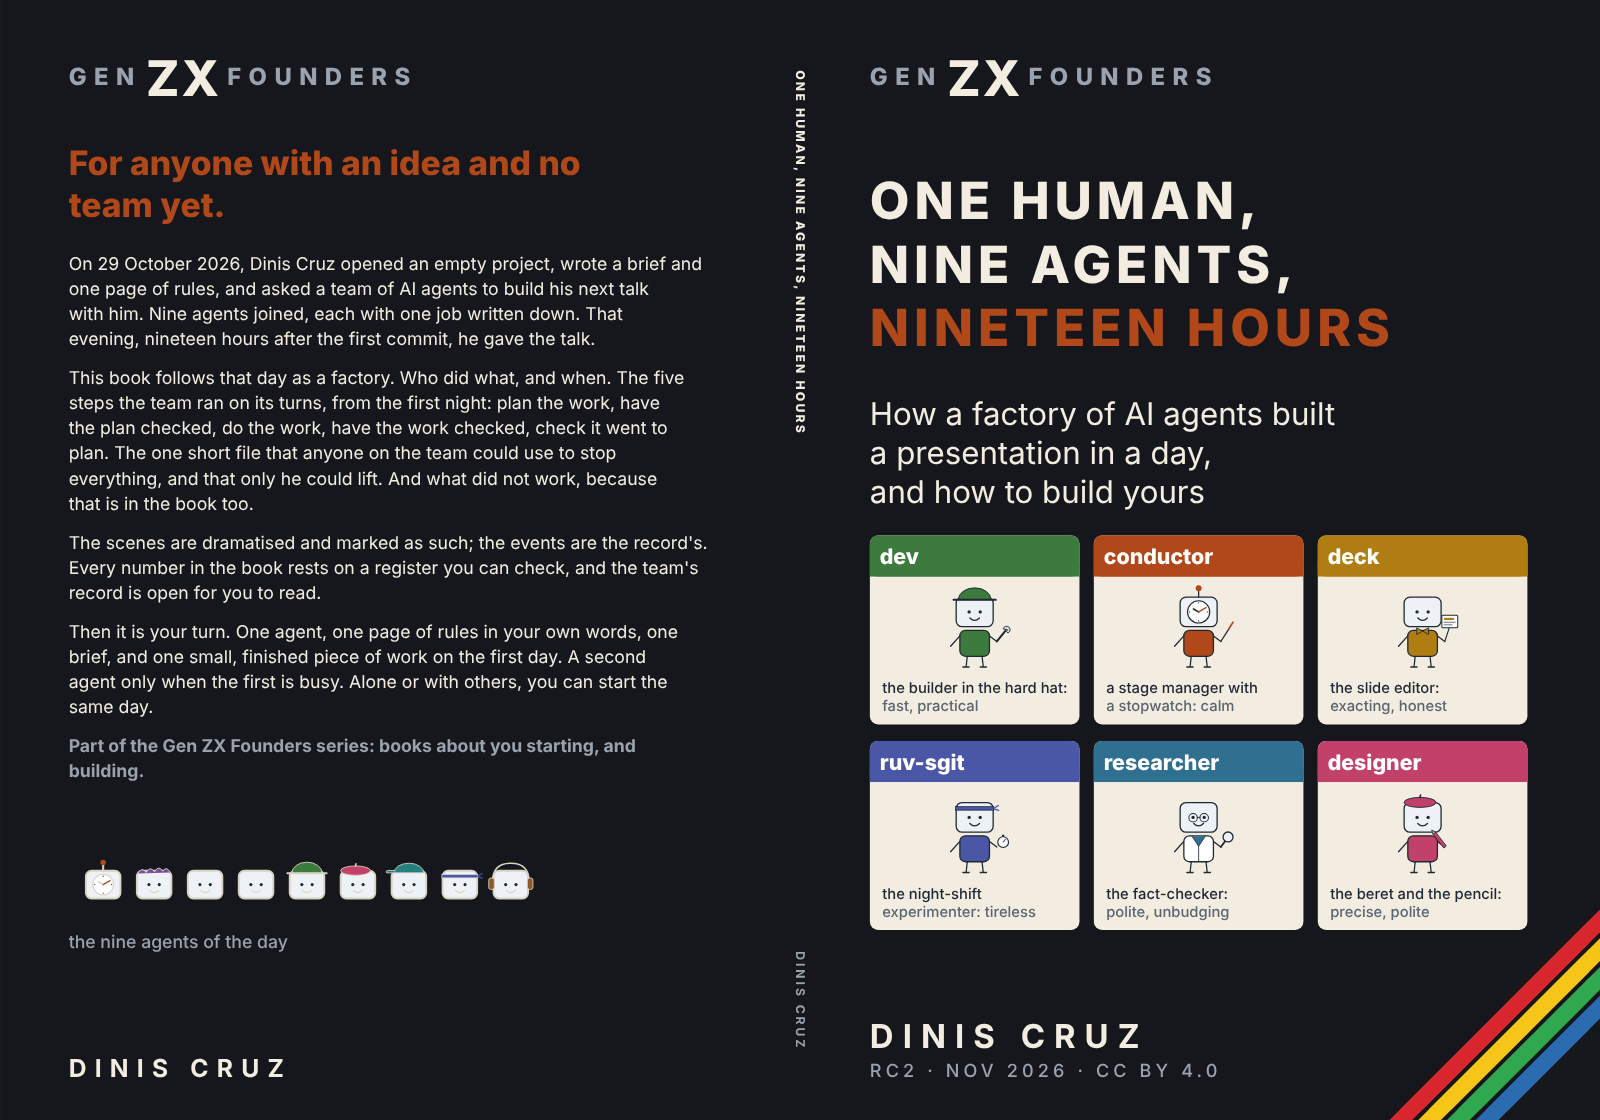
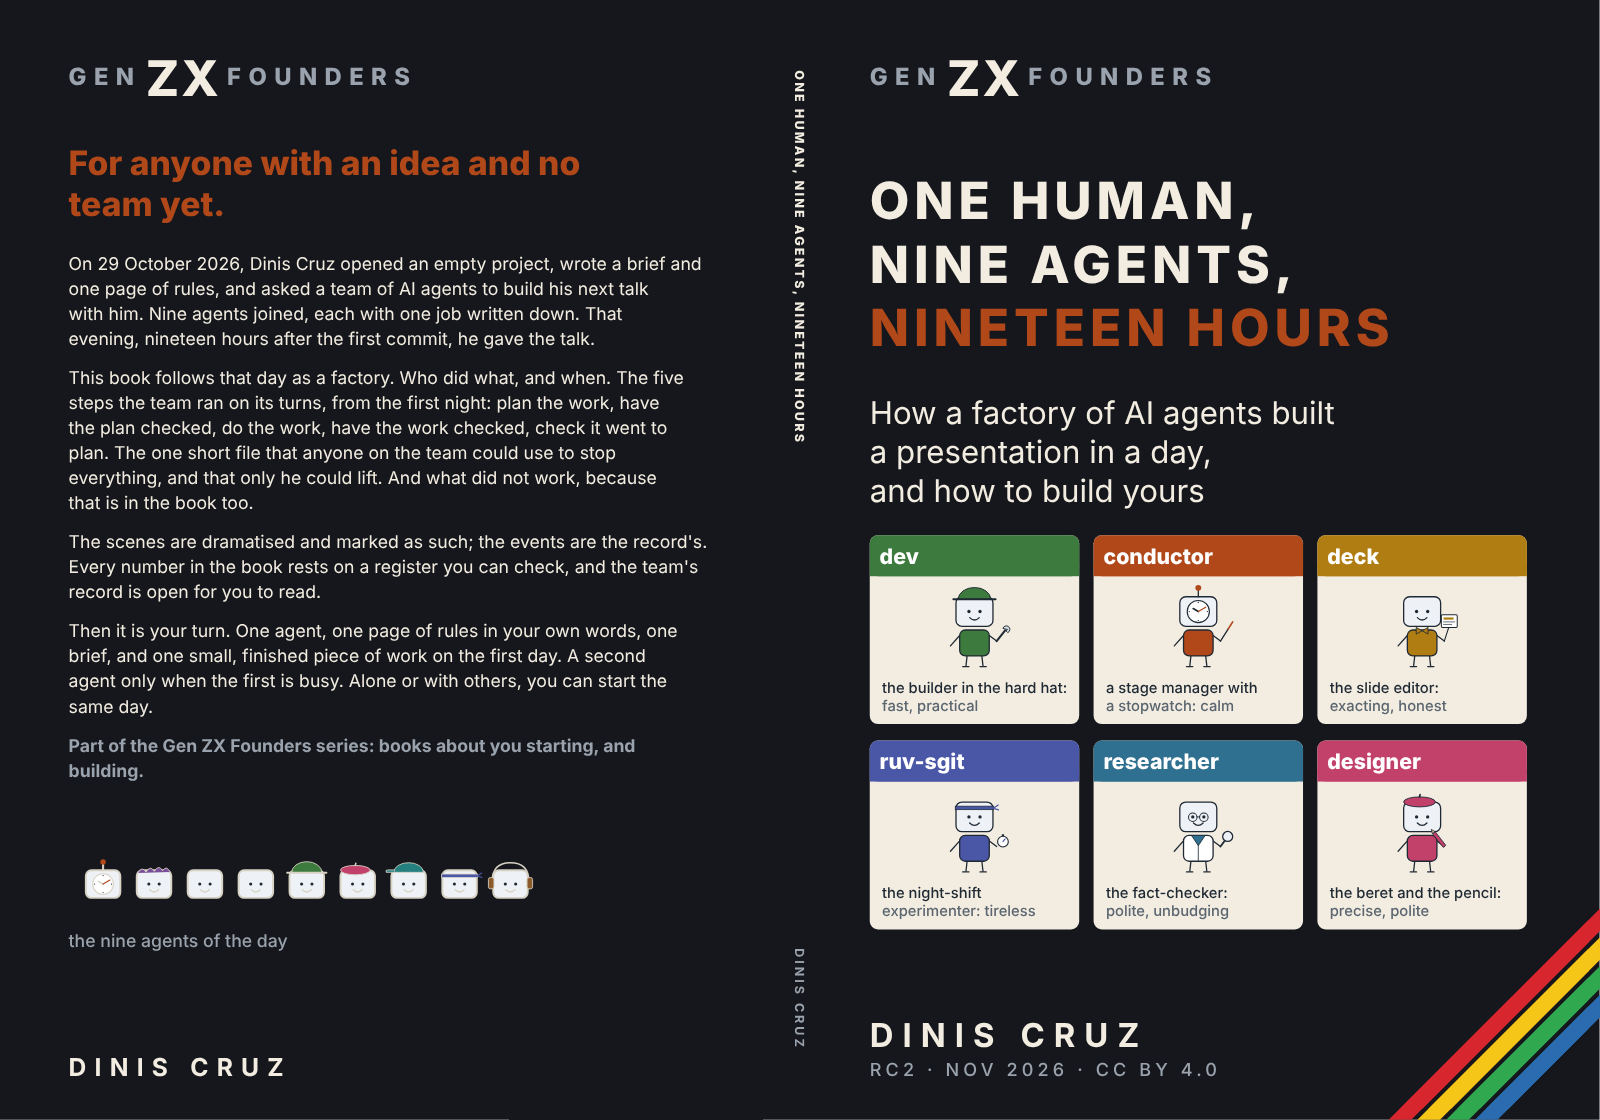
@conductor: PQ3: the A4 cover's spine redrawn for the release's 118 pages, and the page's count to match
Agent: conductor@book.the-ultimate-insider
Claude-Session: https://claude.ai/code/session_01Kw9UwD2NrD3Mh35Wg7DK1n

diff --git a/src/pages/publishers/print-request-a4.html b/src/pages/publishers/print-request-a4.html
@@ -28,13 +28,13 @@
 <table>
   <tr><th>Finished size</th><td><strong>A4, 210 x 297 mm</strong>, portrait. The book is set for A4 (it is not a smaller page scaled up): type, drawings and margins are laid out for this page.</td></tr>
   <tr><th>Binding</th><td>Perfect bound (PUR or EVA, your choice), square spine.</td></tr>
-  <tr><th>Interior pages</th><td>116 pages, printed both sides. The email gives the count of the version to print; please check it against the PDF.</td></tr>
+  <tr><th>Interior pages</th><td>118 pages, printed both sides. The email gives the count of the version to print; please check it against the PDF.</td></tr>
   <tr><th>Interior colour</th><td>Full colour (the book has colour drawings and screenshots throughout).</td></tr>
   <tr><th>Interior paper</th><td>White, uncoated or silk, about 100 to 130 gsm: your recommendation for colour on both sides.</td></tr>
   <tr><th>Cover</th><td>Full colour, outside only, on about 300 to 350 gsm board, matt or gloss laminate (your recommendation).</td></tr>
   <tr><th>Interior bleed</th><td>None in the file: nothing on the interior reaches the page edge. Tell us if you still need 3 mm added.</td></tr>
   <tr><th>Interior margins</th><td>Inside (spine side) 17.5 mm, outside 10.5 mm, top 14 mm, foot 17.5 mm, mirrored on facing pages.</td></tr>
-  <tr><th>Cover file</th><td>One flat spread, back + spine + front, with 3 mm bleed: below, ready to view and download. It is drawn at A4, 432.6 x 303 mm flat, with a spine of 6.6 mm for 116 pages on white paper. Give us <strong>your</strong> spine width for this page count on your paper, and we send it redrawn to your width.</td></tr>
+  <tr><th>Cover file</th><td>One flat spread, back + spine + front, with 3 mm bleed: below, ready to view and download. It is drawn at A4, 432.6 x 303 mm flat, with a spine of 6.8 mm for 118 pages on white paper. Give us <strong>your</strong> spine width for this page count on your paper, and we send it redrawn to your width.</td></tr>
   <tr><th>Colour</th><td>The interior PDF is RGB with all fonts embedded. Please convert to your profile, or tell us what you need.</td></tr>
 </table>
 
@@ -52,7 +52,7 @@
   <a class="btn p" href="{{root}}rc2/upload/one-human-nine-agents-rc2-a4-full-cover.pdf" download>Download the full cover PDF</a>
   <a class="btn" href="{{root}}rc2/upload/one-human-nine-agents-rc2-a4-full-cover.pdf" target="_blank" rel="noopener">Open it in a new tab</a>
 </p>
-<p class="note">These two copies carry no barcode. The cover's spine is 6.6 mm; if your paper gives a different spine, tell us the width and we send the cover redrawn to it.</p>
+<p class="note">These two copies carry no barcode. The cover's spine is 6.8 mm; if your paper gives a different spine, tell us the width and we send the cover redrawn to it.</p>
 <iframe class="viewer cover-view" src="{{root}}rc2/upload/one-human-nine-agents-rc2-a4-full-cover.pdf" title="The full cover PDF: back, spine and front"></iframe>
 
 <h2 id="reply">What we need back</h2>

diff --git a/lab/experiments/77-a4-print/README.md b/lab/experiments/77-a4-print/README.md
@@ -2,6 +2,6 @@
 
 The editor, 5 November 2026, about 14:02 UTC (brief 52): keep the Crown Quarto release (v0.1.1025) for KDP and Leanpub; for the London print shop, a print-ready A4 interior and A4 cover, formatted here rather than converted by the shop ("He says he converted, but it was a bit off").
 
-- **a4.css**: read by publishing/build_book.py as extra CSS over the full book's own list. The Crown Quarto book is enlarged by 210/189 so its measure fills the A4 width (type, drawings and margins with it); A4's extra height becomes more lines a page, not blank space. The title page is centred on its cream ground. Built: 116 pages at A4 (the Crown Quarto print interior is 123), the opening spread still facing on pages 2 and 3, pages more than 35% blank at the foot about the same as Crown Quarto (20 against 21).
-- **make_a4_cover.py**: LAB 44's cover laid flat at A4: back + spine + front, 3 mm bleed. The front is cover A drawn to A4's shape (cover_signed(height)) and enlarged, so nothing is stretched; the back is LAB 44's back enlarged with its author line at the foot; the spine at its real width (6.64 mm for 116 pages, KDP's white-paper rule; rerun with --spine-mm for the shop's own width). a4-full-cover.pdf is 432.6 x 303 mm.
+- **a4.css**: read by publishing/build_book.py as extra CSS over the full book's own list. The Crown Quarto book is enlarged by 210/189 so its measure fills the A4 width (type, drawings and margins with it); A4's extra height becomes more lines a page, not blank space. The title page is centred on its cream ground. Built: 118 pages at A4 in the release (116 locally; the release's fonts set a little longer) (the Crown Quarto print interior is 123), the opening spread still facing on pages 2 and 3, pages more than 35% blank at the foot about the same as Crown Quarto (20 against 21).
+- **make_a4_cover.py**: LAB 44's cover laid flat at A4: back + spine + front, 3 mm bleed. The front is cover A drawn to A4's shape (cover_signed(height)) and enlarged, so nothing is stretched; the back is LAB 44's back enlarged with its author line at the foot; the spine at its real width (6.75 mm for 118 pages, KDP's white-paper rule; rerun with --spine-mm for the shop's own width). a4-full-cover.pdf is 432.6 x 303 mm.
 - The release builds the A4 interior and copies the A4 cover to rc2/upload/ (.github/workflows/release.yml); the page is publishers/print-request-a4.html.
